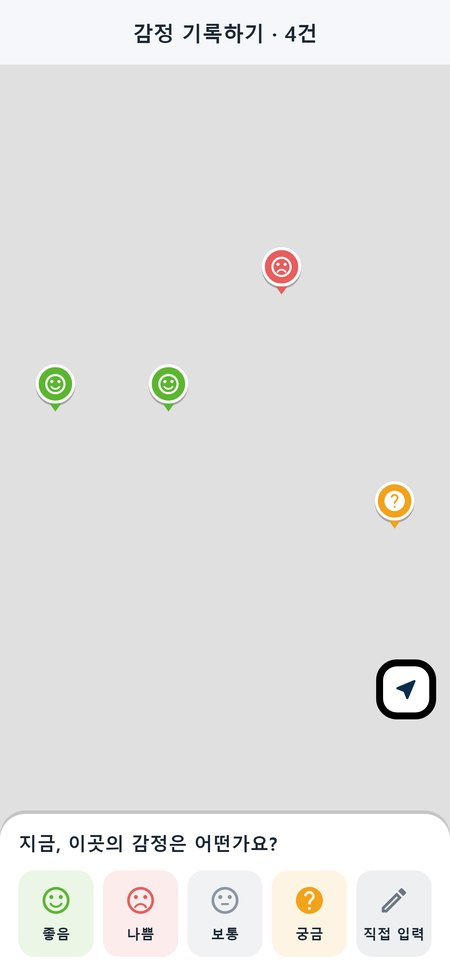
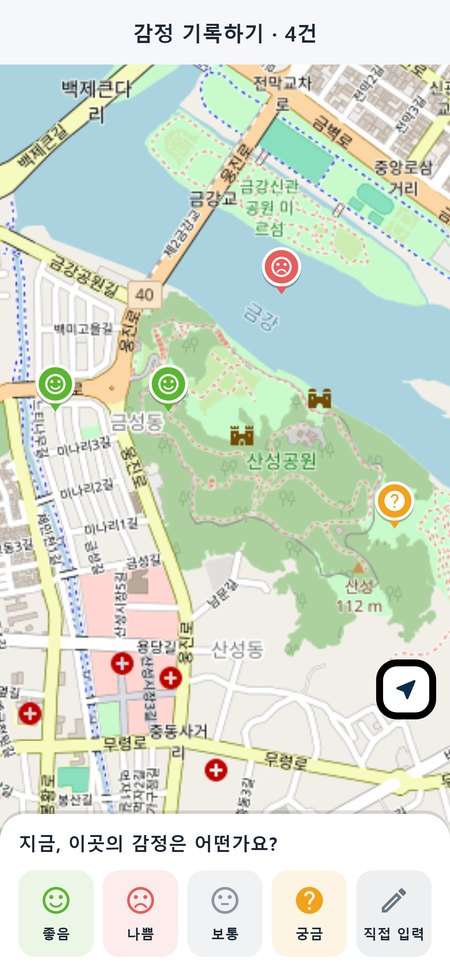
화면 3×2 배치, 지도 화면에 OSM 적용

diff --git a/index.html b/index.html
@@ -59,10 +59,11 @@ a{color:inherit}
 .qr{display:flex;gap:16px;justify-content:center;margin-top:8px}
 .qr img{width:110px;height:110px;border:1px solid var(--border);border-radius:10px;background:#fff}
 
-.shots{display:grid;grid-template-columns:repeat(auto-fit,minmax(170px,1fr));gap:22px;margin-bottom:8px}
+.shots{display:grid;grid-template-columns:repeat(3,1fr);gap:26px 22px;margin-bottom:8px}
 .shot{text-align:center}
-.shot .frame{display:inline-block;background:#111;border-radius:26px;padding:7px;box-shadow:0 14px 32px rgba(11,45,74,.18)}
-.shot img{display:block;width:100%;max-width:200px;border-radius:20px}
+.shot .frame{display:inline-block;background:#111;border-radius:28px;padding:8px;box-shadow:0 14px 32px rgba(11,45,74,.18)}
+.shot img{display:block;width:100%;max-width:260px;border-radius:22px}
+@media(max-width:640px){.shots{grid-template-columns:repeat(2,1fr);gap:18px 12px}.shot .frame{padding:5px;border-radius:20px}.shot img{border-radius:16px}}
 .shot .cap{font-size:13px;color:var(--muted);margin-top:10px;font-weight:600}
 .tags{display:grid;grid-template-columns:repeat(auto-fit,minmax(200px,1fr));gap:14px;margin-bottom:8px}
 .tag{background:var(--card);border:1px solid var(--border);border-radius:16px;padding:18px 18px 16px;display:flex;gap:12px;align-items:flex-start}
@@ -140,7 +141,6 @@ footer .credit{margin-top:8px;font-weight:700;color:var(--navy)}
     <div class="shot"><div class="frame"><img src="./shot_records.jpg" alt="내 기록"></div><div class="cap">내 기록 · 보내기</div></div>
     <div class="shot"><div class="frame"><img src="./shot_guide.jpg" alt="이렇게 기록해요 안내"></div><div class="cap">첫 실행 안내</div></div>
   </div>
-  <p style="font-size:12.5px;color:var(--muted);margin-top:8px">지도 배경은 실제 폰에서 OpenStreetMap 지도로 표시됩니다.</p>
 
   <div class="section-title">😊 감정 태그 4가지</div>
   <div class="tags">
